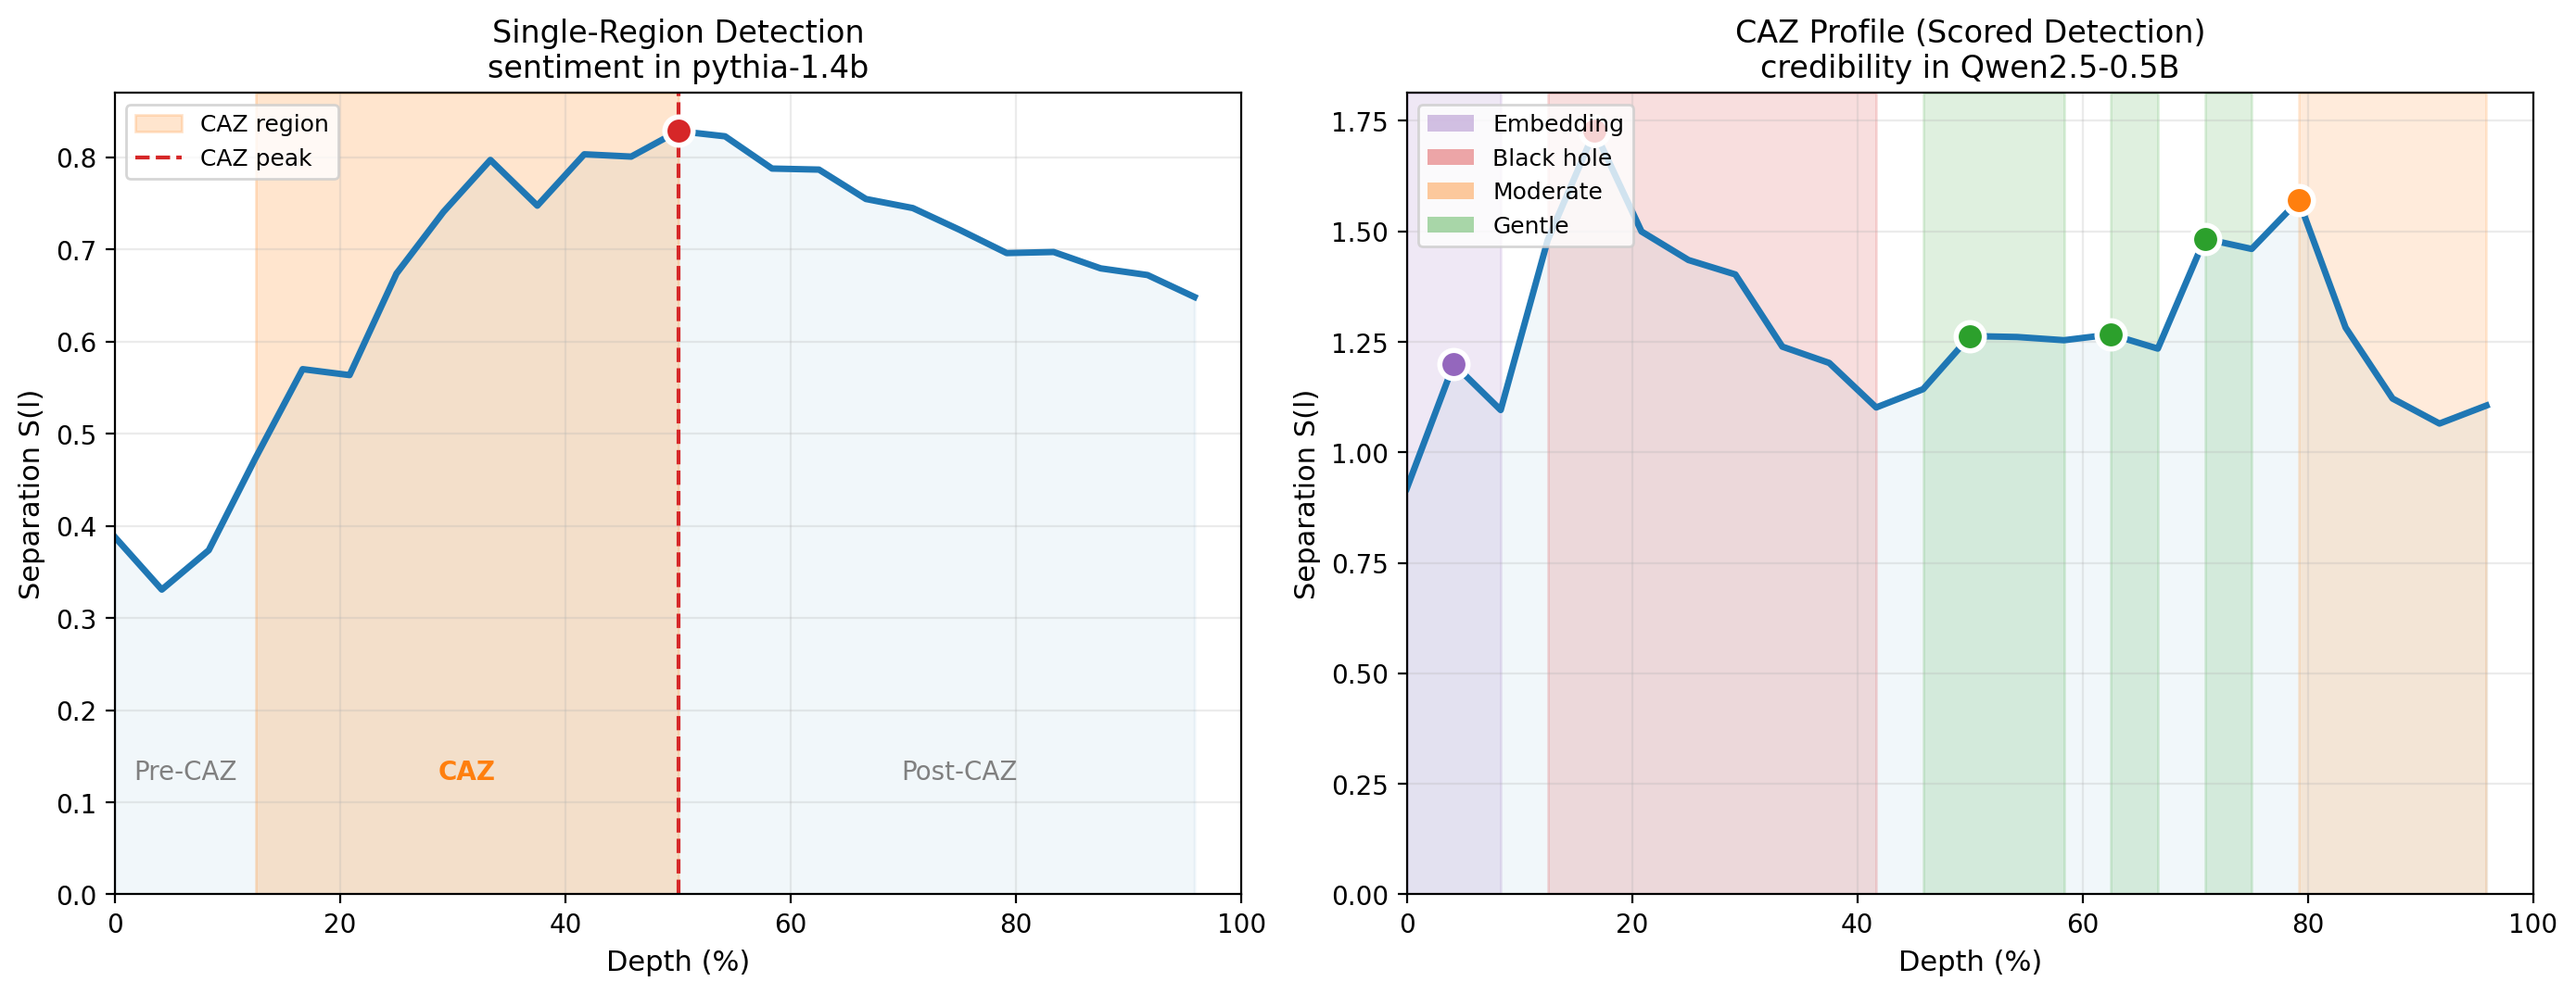
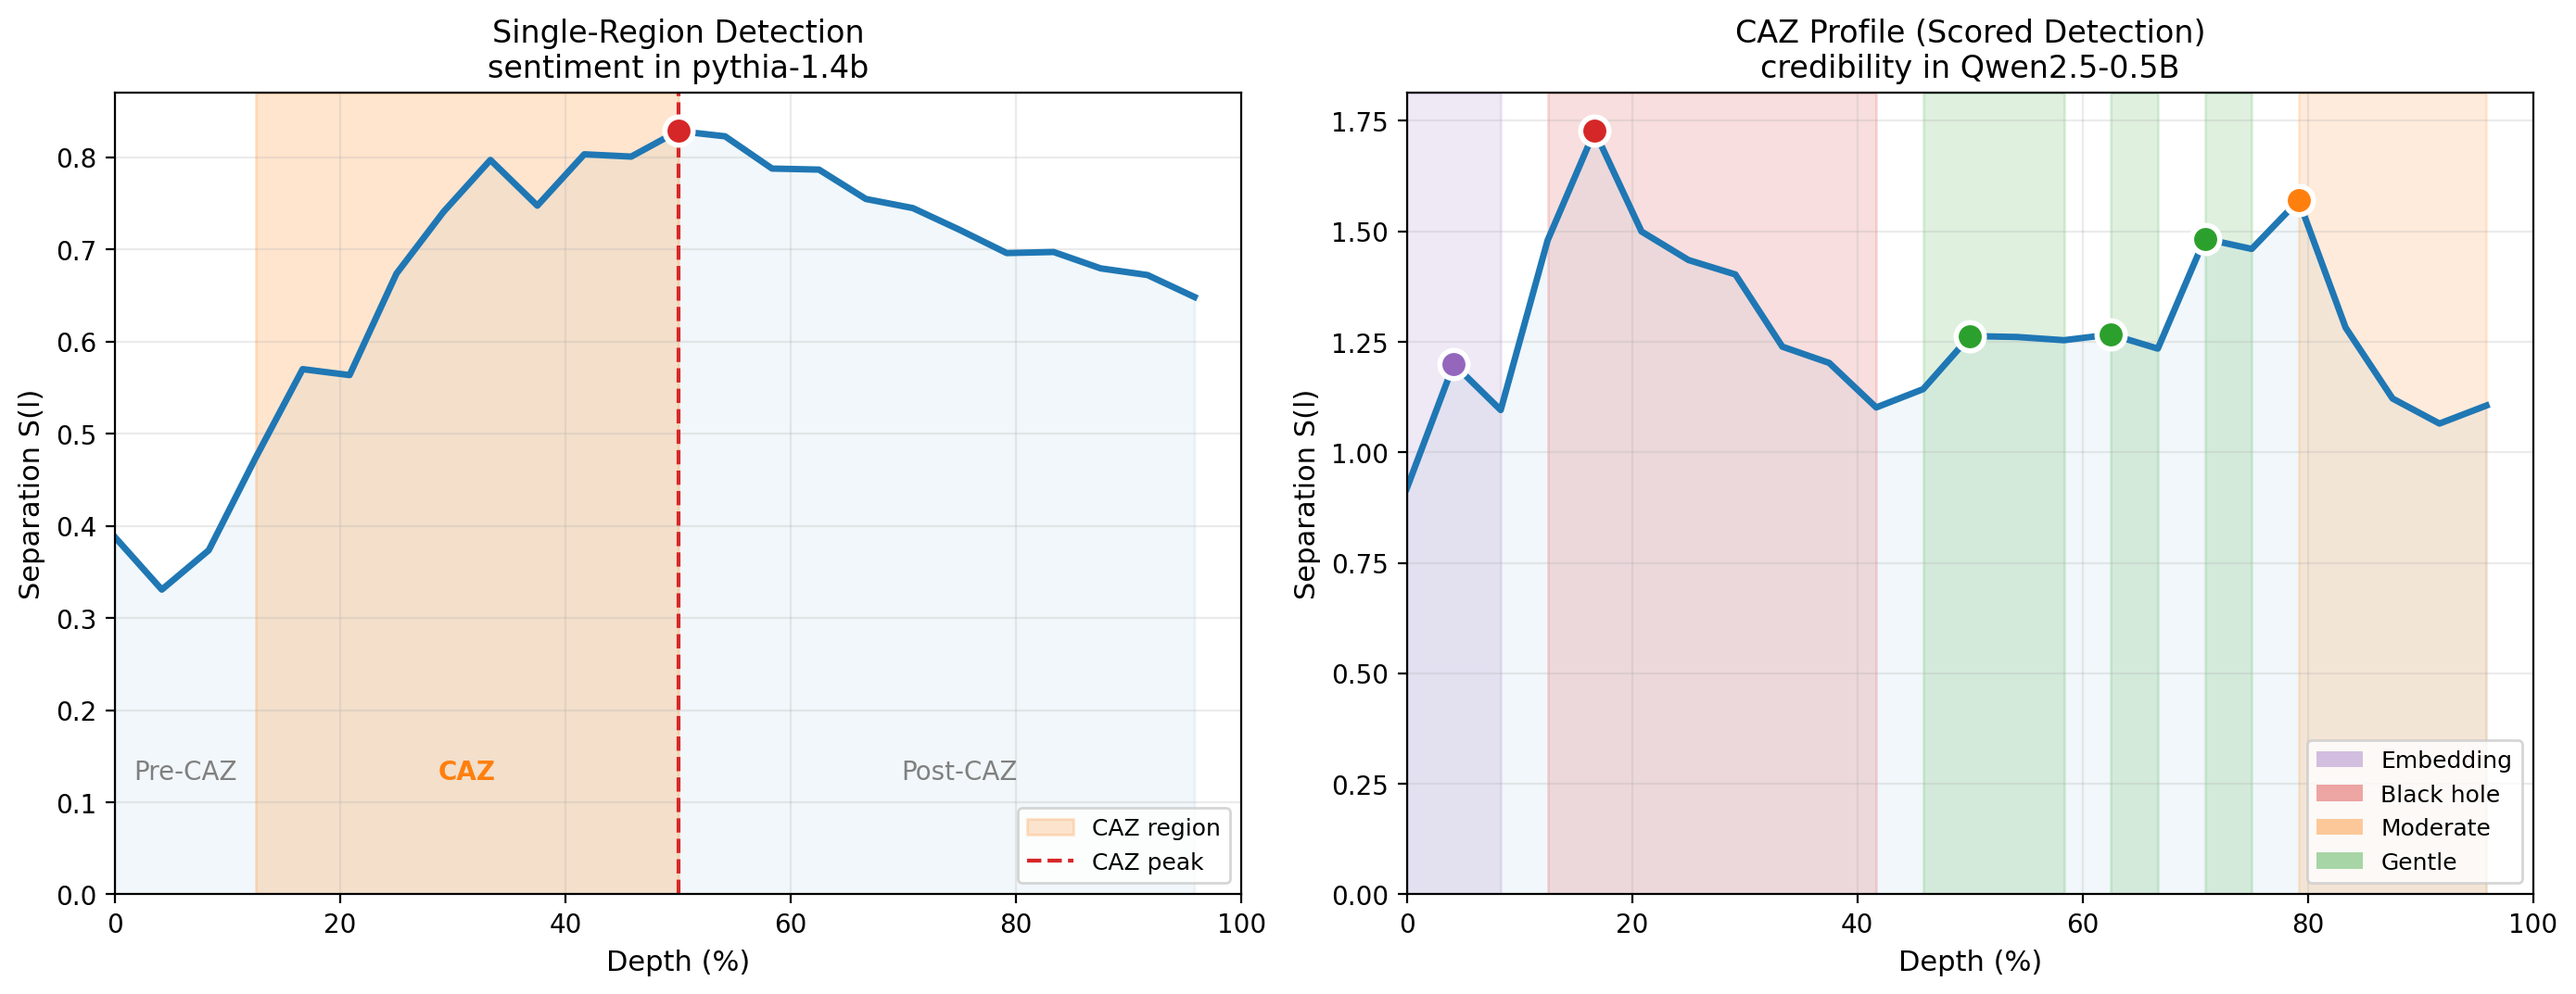
fix: regenerate figures from base model, legends lower right, add viz script
- Figures now use Qwen2.5-0.5B base (not Instruct)
- Legends moved to lower right to avoid covering data
- viz_caz_framework_figures.py saved for future regeneration/tweaking

diff --git a/viz_caz_framework_figures.py b/viz_caz_framework_figures.py
@@ -1,0 +1,234 @@
+"""
+viz_caz_framework_figures.py — Generate figures for the CAZ Framework paper.
+
+Usage:
+    python viz_caz_framework_figures.py
+
+Outputs:
+    figures/caz_detection_comparison.png  — Side-by-side single-region vs scored profile
+    figures/caz_profile_proof_of_concept.png — Scored CAZ profile for one model×concept
+
+Data requirements:
+    Extraction results in ../caz_scaling/results/ for:
+    - pythia-1.4b (sentiment, for unimodal example)
+    - Qwen2.5-0.5B (credibility, for multimodal example)
+"""
+
+import json
+import sys
+from pathlib import Path
+
+import matplotlib.pyplot as plt
+import numpy as np
+
+sys.path.insert(0, str(Path(__file__).resolve().parents[1] / "rosetta_tools"))
+from rosetta_tools.caz import find_caz_boundary, find_caz_regions_scored, LayerMetrics
+
+RESULTS_ROOT = Path(__file__).resolve().parents[1] / "caz_scaling" / "results"
+FIGURES_DIR = Path(__file__).resolve().parent / "figures"
+FIGURES_DIR.mkdir(exist_ok=True)
+
+
+def classify_caz(peak, score, n_layers):
+    """Classify a CAZ by type and assign a color."""
+    if peak <= 1:
+        return "embedding", "#9467bd"
+    elif score >= 0.5:
+        return "black hole", "#d62728"
+    elif score >= 0.05:
+        return "moderate", "#ff7f0e"
+    else:
+        return "gentle", "#2ca02c"
+
+
+def load_metrics(caz_json_path):
+    """Load CAZ extraction JSON into LayerMetrics list."""
+    data = json.load(open(caz_json_path))
+    metrics = [
+        LayerMetrics(
+            layer=m["layer"],
+            separation=m["separation_fisher"],
+            coherence=m["coherence"],
+            velocity=m.get("velocity", 0.0),
+        )
+        for m in data["layer_data"]["metrics"]
+    ]
+    return data, metrics
+
+
+def find_extraction(model_substr, concept, exclude_instruct=True):
+    """Find the extraction directory for a model substring and concept."""
+    for d in sorted(RESULTS_ROOT.iterdir()):
+        if d.name.startswith(("deepdive", "dark", "manifold")):
+            continue
+        if exclude_instruct and "Instruct" in d.name:
+            continue
+        if model_substr in d.name:
+            f = d / f"caz_{concept}.json"
+            if f.exists():
+                return f
+    raise FileNotFoundError(f"No extraction found for {model_substr} / {concept}")
+
+
+# ── Figure 1: Detection comparison ──
+
+
+def generate_detection_comparison():
+    from matplotlib.patches import Patch
+
+    fig, axes = plt.subplots(1, 2, figsize=(14, 5.5))
+
+    # Left: single-region (unimodal) — pythia-1.4b sentiment
+    uni_file = find_extraction("pythia_1.4b", "sentiment")
+    data_uni, metrics_uni = load_metrics(uni_file)
+    boundary = find_caz_boundary(metrics_uni)
+    n_uni = len(metrics_uni)
+    seps_uni = [m.separation for m in metrics_uni]
+    depths_uni = [100 * m.layer / n_uni for m in metrics_uni]
+
+    ax = axes[0]
+    ax.plot(depths_uni, seps_uni, color="#1f77b4", linewidth=2.5)
+    ax.fill_between(depths_uni, seps_uni, alpha=0.06, color="#1f77b4")
+
+    start_d = 100 * boundary.caz_start / n_uni
+    peak_d = 100 * boundary.caz_peak / n_uni
+    end_d = 100 * boundary.caz_end / n_uni
+    ax.axvspan(start_d, end_d, alpha=0.2, color="#ff7f0e", label="CAZ region")
+    ax.axvline(peak_d, color="#d62728", linestyle="--", linewidth=1.5, label="CAZ peak")
+    ax.scatter(
+        [peak_d], [seps_uni[boundary.caz_peak]],
+        s=120, color="#d62728", zorder=5, edgecolors="white", linewidths=2,
+    )
+
+    ax.annotate("Pre-CAZ", (start_d / 2, max(seps_uni) * 0.15),
+                ha="center", fontsize=10, color="gray")
+    ax.annotate("CAZ", ((start_d + end_d) / 2, max(seps_uni) * 0.15),
+                ha="center", fontsize=10, color="#ff7f0e", fontweight="bold")
+    ax.annotate("Post-CAZ", ((end_d + 100) / 2, max(seps_uni) * 0.15),
+                ha="center", fontsize=10, color="gray")
+
+    model_name = data_uni["model_id"].split("/")[-1]
+    ax.set_title(f"Single-Region Detection\nsentiment in {model_name}", fontsize=12)
+    ax.set_xlabel("Depth (%)", fontsize=11)
+    ax.set_ylabel("Separation S(l)", fontsize=11)
+    ax.set_xlim(0, 100)
+    ax.set_ylim(bottom=0)
+    ax.legend(fontsize=9, loc="lower right")
+    ax.grid(True, alpha=0.25)
+
+    # Right: scored profile (multimodal) — Qwen2.5-0.5B credibility
+    multi_file = find_extraction("Qwen2.5_0.5B", "credibility")
+    data_multi, metrics_multi = load_metrics(multi_file)
+    profile = find_caz_regions_scored(metrics_multi)
+    n_multi = len(metrics_multi)
+    seps_multi = [m.separation for m in metrics_multi]
+    depths_multi = [100 * m.layer / n_multi for m in metrics_multi]
+
+    ax = axes[1]
+    ax.plot(depths_multi, seps_multi, color="#1f77b4", linewidth=2.5)
+    ax.fill_between(depths_multi, seps_multi, alpha=0.06, color="#1f77b4")
+
+    for region in profile.regions:
+        cat, color = classify_caz(region.peak, region.caz_score, n_multi)
+        start_depth = 100 * region.start / n_multi
+        end_depth = 100 * region.end / n_multi
+        peak_depth = 100 * region.peak / n_multi
+        ax.axvspan(start_depth, end_depth, alpha=0.15, color=color)
+        ax.scatter(
+            [peak_depth], [seps_multi[region.peak]],
+            s=120, color=color, zorder=5, edgecolors="white", linewidths=2,
+        )
+
+    model_name2 = data_multi["model_id"].split("/")[-1]
+    ax.set_title(f"CAZ Profile (Scored Detection)\ncredibility in {model_name2}", fontsize=12)
+    ax.set_xlabel("Depth (%)", fontsize=11)
+    ax.set_ylabel("Separation S(l)", fontsize=11)
+    ax.set_xlim(0, 100)
+    ax.set_ylim(bottom=0)
+    ax.grid(True, alpha=0.25)
+
+    legend_elements = [
+        Patch(facecolor="#9467bd", alpha=0.4, label="Embedding"),
+        Patch(facecolor="#d62728", alpha=0.4, label="Black hole"),
+        Patch(facecolor="#ff7f0e", alpha=0.4, label="Moderate"),
+        Patch(facecolor="#2ca02c", alpha=0.4, label="Gentle"),
+    ]
+    ax.legend(handles=legend_elements, fontsize=9, loc="lower right")
+
+    plt.tight_layout()
+    out = FIGURES_DIR / "caz_detection_comparison.png"
+    fig.savefig(out, dpi=200, bbox_inches="tight")
+    print(f"Saved {out}")
+    plt.close()
+
+
+# ── Figure 2: Proof-of-concept scored profile ──
+
+
+def generate_proof_of_concept():
+    from matplotlib.lines import Line2D
+    from matplotlib.patches import Patch
+
+    multi_file = find_extraction("Qwen2.5_0.5B", "credibility")
+    data, metrics = load_metrics(multi_file)
+    profile = find_caz_regions_scored(metrics)
+    n_layers = len(metrics)
+    seps = [m.separation for m in metrics]
+    depths = [100 * m.layer / n_layers for m in metrics]
+
+    fig, ax = plt.subplots(1, 1, figsize=(12, 5.5))
+    ax.plot(depths, seps, color="#1f77b4", linewidth=2.5, zorder=2)
+    ax.fill_between(depths, seps, alpha=0.06, color="#1f77b4")
+
+    for region in profile.regions:
+        cat, color = classify_caz(region.peak, region.caz_score, n_layers)
+        peak_depth = 100 * region.peak / n_layers
+        start_depth = 100 * region.start / n_layers
+        end_depth = 100 * region.end / n_layers
+
+        ax.axvspan(start_depth, end_depth, alpha=0.15, color=color, zorder=1)
+        ax.scatter(
+            [peak_depth], [seps[region.peak]],
+            s=140, color=color, zorder=5, edgecolors="white", linewidths=2,
+        )
+
+        y_off = max(seps) * 0.06
+        if seps[region.peak] > max(seps) * 0.7:
+            y_off = -max(seps) * 0.08
+        ax.annotate(
+            f"{cat}\n({region.caz_score:.2f})",
+            (peak_depth, seps[region.peak] + y_off),
+            ha="center", fontsize=8.5, color=color, fontweight="bold",
+        )
+
+    ax.set_xlabel("Depth (%)", fontsize=13)
+    ax.set_ylabel("Separation S(l)", fontsize=13)
+    ax.set_title(
+        f"CAZ Profile: credibility in {data['model_id'].split('/')[-1]}\n"
+        f"{len(profile.regions)} CAZes detected — black holes, moderate, gentle, and embedding",
+        fontsize=13,
+    )
+    ax.set_xlim(0, 100)
+    ax.set_ylim(bottom=0)
+    ax.grid(True, alpha=0.25)
+
+    legend_elements = [
+        Line2D([0], [0], color="#1f77b4", linewidth=2.5, label="Separation S(l)"),
+        Patch(facecolor="#9467bd", alpha=0.4, label="Embedding CAZ"),
+        Patch(facecolor="#d62728", alpha=0.4, label="Black hole (score > 0.5)"),
+        Patch(facecolor="#ff7f0e", alpha=0.4, label="Moderate (0.05 - 0.5)"),
+        Patch(facecolor="#2ca02c", alpha=0.4, label="Gentle (score < 0.05)"),
+    ]
+    ax.legend(handles=legend_elements, loc="lower right", fontsize=10, framealpha=0.9)
+
+    plt.tight_layout()
+    out = FIGURES_DIR / "caz_profile_proof_of_concept.png"
+    fig.savefig(out, dpi=200, bbox_inches="tight")
+    print(f"Saved {out}")
+    plt.close()
+
+
+if __name__ == "__main__":
+    generate_detection_comparison()
+    generate_proof_of_concept()
+    print("Done.")
